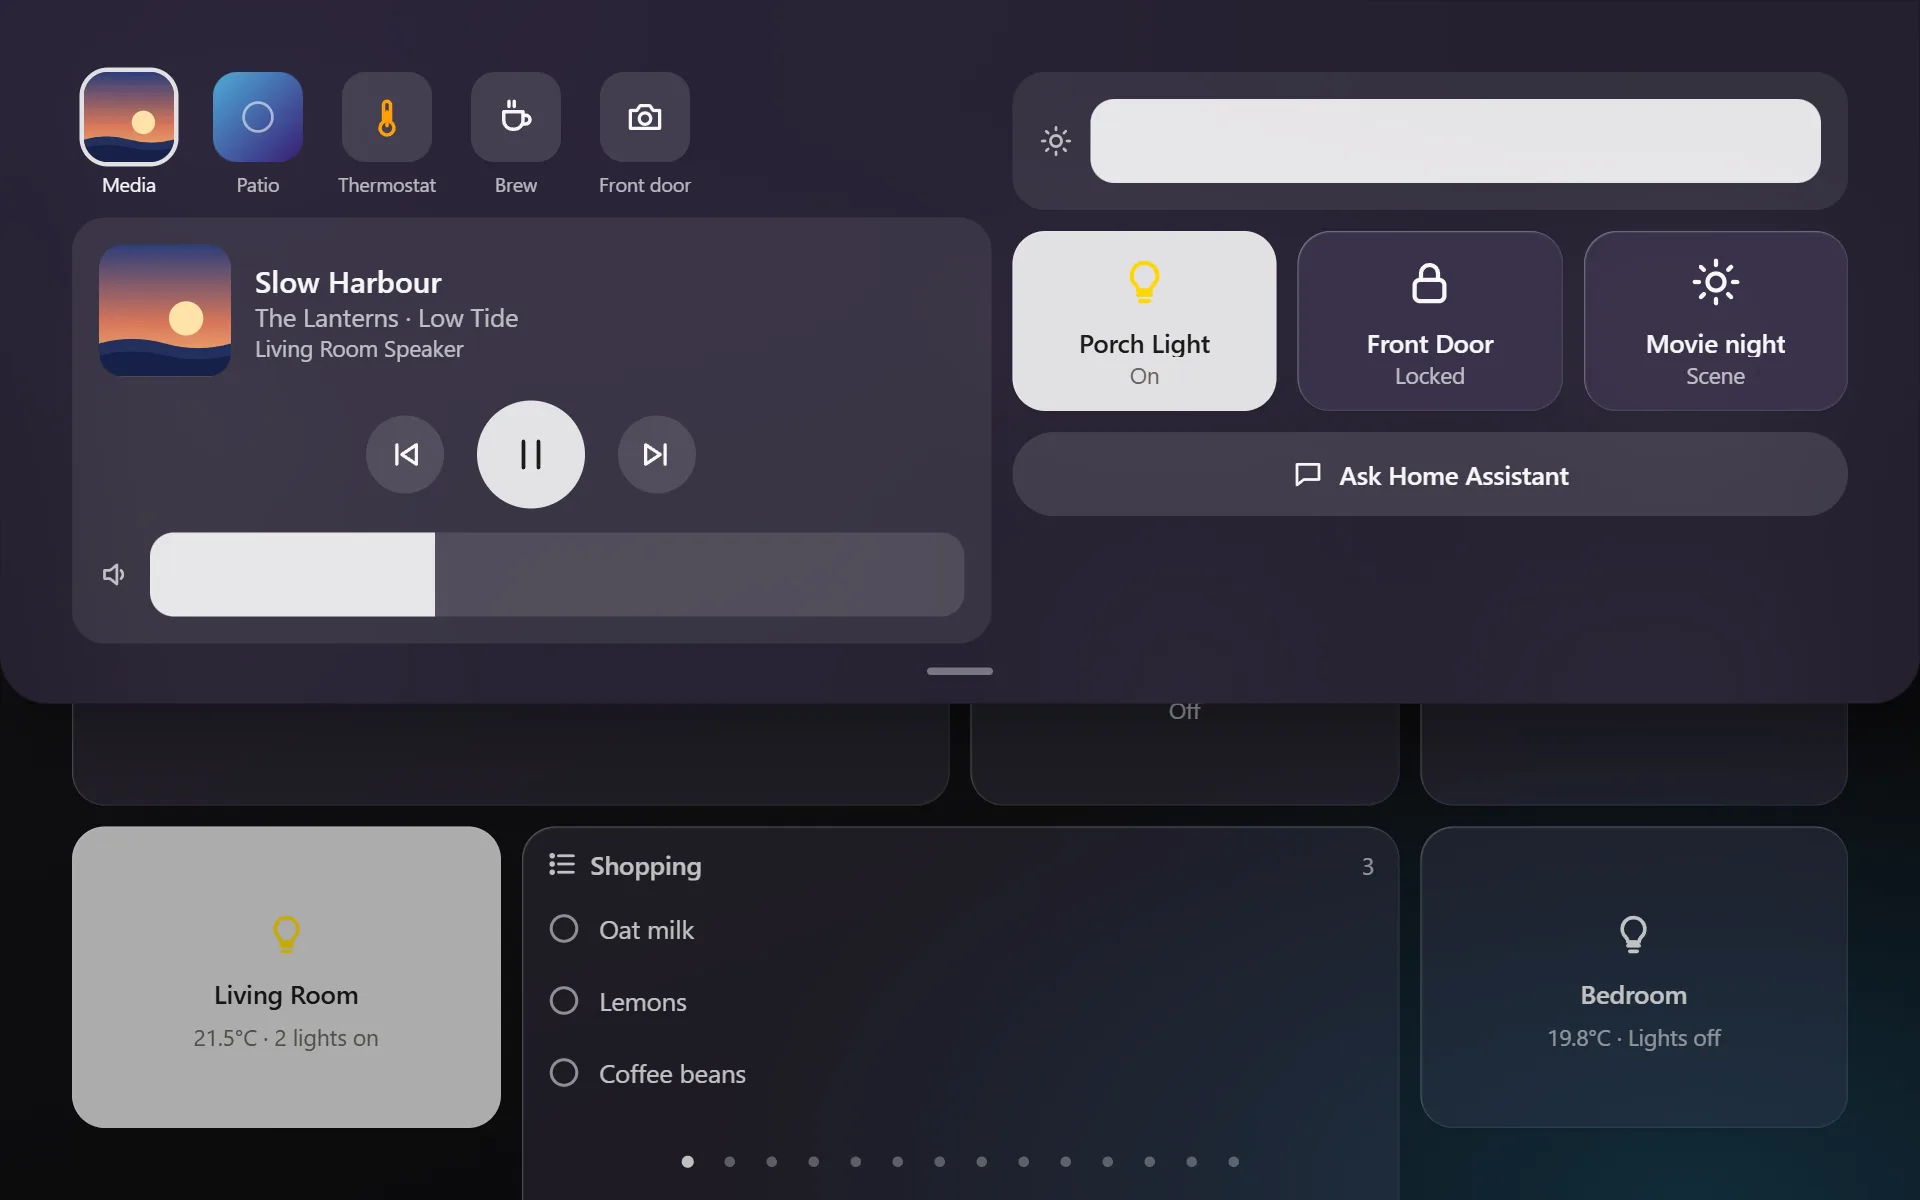
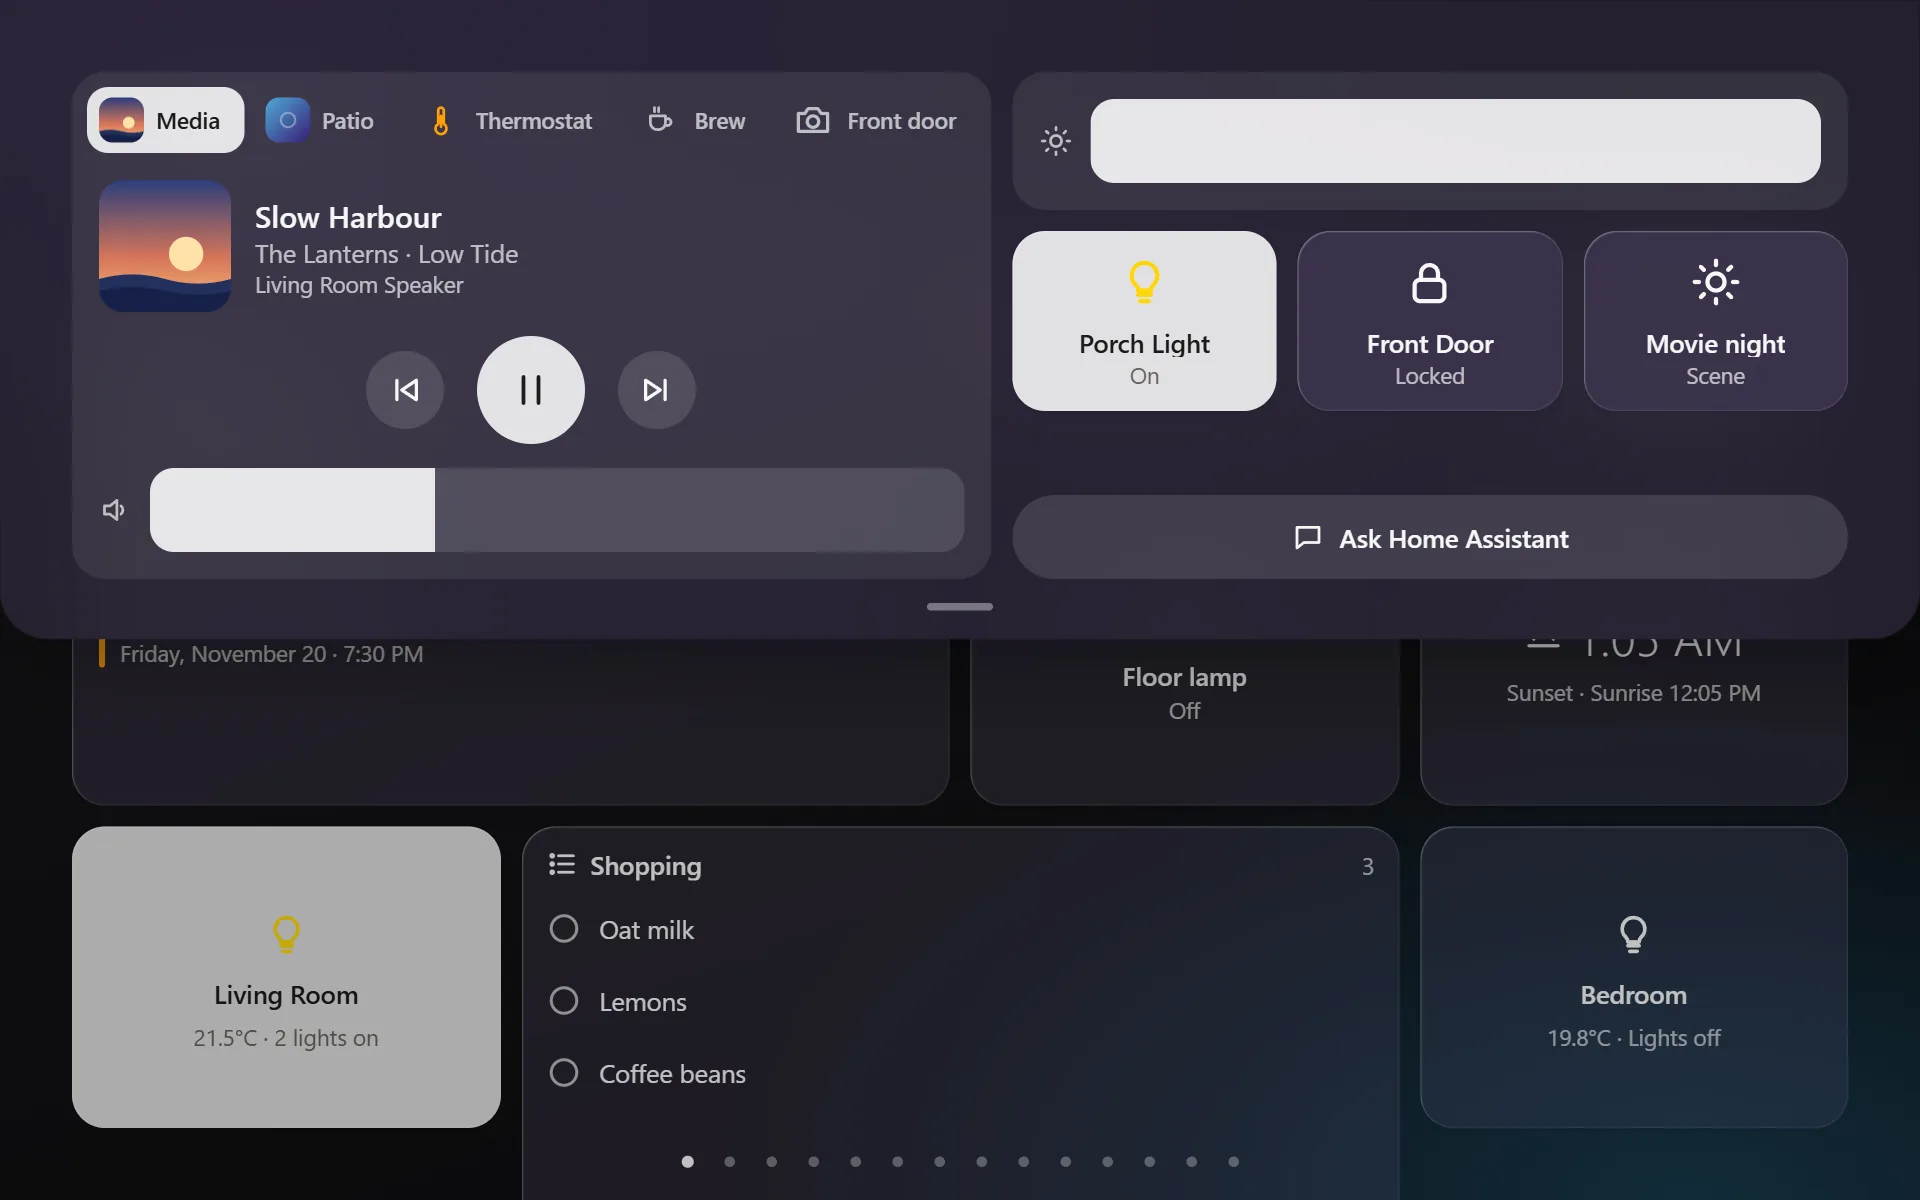
Release 0.16.3
The quick panel's widgets, when there's more than one, share one card
with a tab for each along its top, in place of the row of icons above
them, so the card lines up with the column beside it, top and bottom.

diff --git a/src/quick/panel.ts b/src/quick/panel.ts
@@ -294,8 +294,9 @@ export class LuxFrameQuickPanel extends LitElement {
     return playing ? (player?.attributes.entity_picture as string | undefined) : undefined;
   }
 
+  /** The widgets, as tabs along the top of the card that shows the picked one. */
   private _renderDock(entries: Entry[], current: Entry | undefined) {
-    return html`<nav class="dock" aria-label="Quick panel">
+    return html`<nav class="dock" role="tablist" aria-label="Quick panel" data-no-swipe>
       ${entries.map(({ item, index }) => {
         const on = current?.index === index;
         const label = dockLabel(this.hass, item);
@@ -304,8 +305,8 @@ export class LuxFrameQuickPanel extends LitElement {
         const lit = !!entity && isActive(this.hass?.states[entity]);
         return html`<button
           class="dock-item ${on ? 'on' : ''}"
-          aria-pressed=${on}
-          aria-label=${label}
+          role="tab"
+          aria-selected=${on}
           @click=${() => this._pick(index, on)}
         >
           <span class="dock-icon ${art ? 'art' : ''} ${lit ? 'lit' : ''}"
@@ -398,9 +399,10 @@ export class LuxFrameQuickPanel extends LitElement {
     const entries = this._entries();
     const current = this._current(entries);
     const side = this._renderSide();
+    const tabbed = entries.length > 1;
     const main = entries.length
-      ? html`<div class="main">
-          ${entries.length > 1 ? this._renderDock(entries, current) : nothing}
+      ? html`<div class="main ${tabbed ? 'tabbed' : ''}">
+          ${tabbed ? this._renderDock(entries, current) : nothing}
           ${current
             ? keyed(
                 current.index,
@@ -526,6 +528,12 @@ export class LuxFrameQuickPanel extends LitElement {
     @media (orientation: landscape) {
       .content.two {
         grid-template-columns: minmax(0, 1.1fr) minmax(0, 1fr);
+        align-items: stretch;
+      }
+
+      /* Ask Home Assistant at the bottom, level with the widget's. */
+      .content.two .ask {
+        margin-top: auto;
       }
     }
 
@@ -536,78 +544,108 @@ export class LuxFrameQuickPanel extends LitElement {
       min-width: 0;
     }
 
-    /* The dock: glass icons with their names under them. */
+    /*
+     * More than one widget: one card holds them, with a tab for each along
+     * its top, so the card lines up with the column beside it.
+     */
+    .main.tabbed {
+      gap: 0;
+      border-radius: var(--lf-radius);
+      background: var(--lf-control-row);
+    }
+
     .dock {
       display: flex;
-      flex-wrap: wrap;
-      gap: 6px 10px;
+      gap: 6px;
+      padding: 10px 10px 0;
+      overflow-x: auto;
+      scrollbar-width: none;
+    }
+
+    .dock::-webkit-scrollbar {
+      display: none;
     }
 
     .dock-item {
+      flex: none;
       display: flex;
-      flex-direction: column;
       align-items: center;
-      gap: 6px;
-      width: 76px;
-      padding: 0;
+      gap: 8px;
+      max-width: 220px;
+      min-height: 44px;
+      padding: 6px 16px 6px 8px;
+      border-radius: calc(var(--lf-radius) - 8px);
       background: none;
-    }
-
-    .dock-icon {
-      position: relative;
-      display: grid;
-      place-items: center;
-      width: 60px;
-      height: 60px;
-      border-radius: var(--lf-radius-icon);
-      color: var(--lf-text);
-      background: var(--lf-control) center / cover no-repeat;
-      --mdc-icon-size: 28px;
+      color: var(--lf-muted);
       transition:
         background-color var(--lf-move),
         color var(--lf-move),
         transform var(--lf-fast);
     }
 
+    .dock-item.on {
+      background: var(--lf-surface-active);
+      color: var(--lf-text-active);
+    }
+
+    .dock-item:active {
+      transform: scale(0.97);
+    }
+
+    .dock-icon {
+      flex: none;
+      display: grid;
+      place-items: center;
+      width: 30px;
+      height: 30px;
+      border-radius: 9px;
+      background: center / cover no-repeat;
+      --mdc-icon-size: 22px;
+    }
+
     .dock-icon.lit {
       color: var(--lf-accent);
     }
 
-    .dock-item.on .dock-icon {
-      background-color: var(--lf-surface-active);
-      color: var(--lf-text-active);
-    }
-
-    /* Artwork fills the media icon; picked, a ring says so. */
-    .dock-item.on .dock-icon.art {
-      box-shadow: 0 0 0 3px var(--lf-surface-active);
-    }
-
-    .dock-item:active .dock-icon {
-      transform: scale(0.96);
+    .dock-item.on .dock-icon.lit {
+      color: inherit;
     }
 
     .glyph {
-      font-size: 22px;
+      font-size: 17px;
       font-weight: 600;
     }
 
     .dock-label {
-      max-width: 100%;
+      min-width: 0;
       overflow: hidden;
-      font-size: 13px;
-      color: var(--lf-muted);
+      font-size: 15px;
+      font-weight: 600;
       text-overflow: ellipsis;
       white-space: nowrap;
     }
 
-    .dock-item.on .dock-label {
-      color: var(--lf-text);
-    }
-
     .stage {
+      flex: 1;
+      display: flex;
+      flex-direction: column;
       min-width: 0;
       animation: stage-in var(--lf-move) var(--lf-ease);
+    }
+
+    /* The widget fills its column, down to the bottom of the one beside it. */
+    .stage > .card {
+      flex: 1;
+    }
+
+    /* In the tabbed card, the widget sits on the card itself. */
+    .tabbed .stage > .card:not(.bare) {
+      background: none;
+    }
+
+    .tabbed .stage > .card.bare,
+    .tabbed .stage > .tile-box {
+      margin: 10px;
     }
 
     @keyframes stage-in {

diff --git a/README.md b/README.md
@@ -105,11 +105,11 @@ See [Detail pages](#detail-pages).
 </tr></table>
 
 **Quick panel and Assist.** Pull down from the top edge for what's playing,
-the screen's brightness, pinned tiles, a dock of shortcuts, and **Ask Home
+the screen's brightness, pinned tiles, your widgets as tabs, and **Ask Home
 Assistant** to type a request. See
 [Quick panel and Assist](#quick-panel-and-assist).
 
-![The quick panel: what's playing, brightness, pinned tiles, a dock and Ask Home Assistant](docs/screenshots/quick-panel.webp)
+![The quick panel: what's playing, brightness, pinned tiles, widget tabs and Ask Home Assistant](docs/screenshots/quick-panel.webp)
 
 **Edit on the tablet.** Hold a tile to move, resize and remove tiles, or add
 one from a list of every entity and widget. Customize changes the look and
@@ -671,14 +671,15 @@ is scrolled. A tap on the small handle there opens it too, and a short flick
 is enough. A pull on a light's or shade's tile still sets its level, and a
 swipe across still turns the page.
 
-Along its top runs the **dock**, a row of glass icons, each opening its own
-view on the stage under it. Tap another icon to switch, or the open one to
-fold the stage away. The dock can hold:
+The **dock** holds the panel's widgets. With more than one, they share a
+card with a tab for each along its top, so the card lines up with the column
+beside it. Tap another tab to switch, or the open one to fold the card down
+to its tabs. The dock can hold:
 
 - **What's playing** (`media`): artwork, title and artist, previous /
   play-pause / next, and volume. It follows whichever speaker is playing,
   Music Assistant's players first, unless you set `media_player`. Buttons the
-  speaker can't use are dimmed, and the icon shows the artwork. Tap the
+  speaker can't use are dimmed, and its tab shows the artwork. Tap the
   artwork or title for the [speaker's details](#detail-pages).
 - **A device's controls** (its entity id): the same controls as its details
   page, a little smaller, such as a thermostat's temperature and modes or a
@@ -690,7 +691,7 @@ fold the stage away. The dock can hold:
   `height` sets how tall it is, 300 pixels by default.
 
 Out of the box the dock holds what's playing alone, and with only one item
-there's no row of icons: it just shows.
+there are no tabs: it just shows.
 
 Beside them, or under them when the tablet is upright:
 
@@ -829,7 +830,7 @@ My theme:
 | `luxframe-danger`, `luxframe-success` | Remove and confirm buttons; a badge that ran |
 | `luxframe-control`           | Buttons, chips and fields on glass and sheets |
 | `luxframe-radius`            | Tile corner radius (`corner_radius` in the config wins) |
-| `luxframe-radius-s`, `luxframe-radius-icon` | Fields and list rows; icon squares such as the dock's and artwork |
+| `luxframe-radius-s`, `luxframe-radius-icon` | Fields and list rows; icon squares such as artwork |
 | `luxframe-font`              | Font family                            |
 
 ## Kiosk Satellite

diff --git a/CHANGELOG.md b/CHANGELOG.md
@@ -6,6 +6,15 @@ All notable changes to LuxFrame are recorded here. The format follows
 
 ## [Unreleased]
 
+## [0.16.3] - 2026-11-15
+
+### Changed
+
+- The quick panel's widgets, when there's more than one, share one card
+  with a tab for each along its top, in place of the row of icons above
+  them. The card lines up with the column beside it, top and bottom, and
+  Ask Home Assistant sits at the bottom of that column.
+
 ## [0.16.2] - 2026-11-11
 
 ### Added
@@ -596,7 +605,8 @@ All notable changes to LuxFrame are recorded here. The format follows
 - The editor adds the new tiles (Widgets and Rooms) and pages (Weather,
   Calendar, Cameras, Photos, Night, Clock).
 
-[Unreleased]: https://github.com/wallacegsr/luxframe/compare/v0.16.2...HEAD
+[Unreleased]: https://github.com/wallacegsr/luxframe/compare/v0.16.3...HEAD
+[0.16.3]: https://github.com/wallacegsr/luxframe/compare/v0.16.2...v0.16.3
 [0.16.2]: https://github.com/wallacegsr/luxframe/compare/v0.16.1...v0.16.2
 [0.16.1]: https://github.com/wallacegsr/luxframe/compare/v0.16.0...v0.16.1
 [0.16.0]: https://github.com/wallacegsr/luxframe/compare/v0.15.1...v0.16.0
